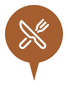
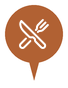
Cafés and eats pulled apart: coffee brown and a brighter orange
The owner found the two kinds' colours could not be told apart side by
side on a collection's card, and asked for new ones, knowing the map's
pins follow (12 Nov 2026).

Measured at the worst of normal, deuteranopic and protanopic vision
(CIEDE2000):

- The two dots sat 6° apart at one lightness, 2.7 apart.
- The eats pin sat 1.1 from nature's for a red-green reader.

The fix keeps the convention a reader already holds (coffee is brown,
food is orange) and pulls the two apart in lightness, the one
difference every kind of colour vision keeps. Each stays on its own hue.

|       | cafés dot | eats dot | cafés pin | eats pin |
|-------|-----------|----------|-----------|----------|
| was   | #D2A679   | #E09A6B  | #B75F05   | #A45E2F  |
| now   | #A6733F   | #EB8347  | #6E451C   | #B16133  |

Results:

- The dots are now 10.0 apart.
- The eats pin is 3.9 from its nearest, nature.
- The cafés pin is 8.6 from its nearest, culture.
- White ink reaches 8.3:1 on the cafés pin and 4.54:1 on the eats pin.

The cafés pin is darker than the pin rule's lightest step, #A36A2F,
which sat 0.5 from the eats pin. The exception is written at the table.

Other changes:

- `scripts/map-pins.py` had stopped parsing the table once it became
  `STYLES`; it now reads from the table to its end.
- Only the two recoloured pins are redrawn. The rest are left as they
  were, since this Pillow antialiases a few pixels differently.
- `taxonomy.test.ts` holds the two kinds apart in lightness: 1.5:1
[…]

diff --git a/app/src/lib/categories.ts b/app/src/lib/categories.ts
@@ -53,7 +53,8 @@ export type CategoryStyle = {
    * Hue is identical to `color`, which is what makes this the same colour
    * rather than a second one. Solved in that order and no other: exact
    * hue first, then saturation at or above 55%, then the lightest
-   * remaining step whose glyph still clears 4.5:1. Never against a fixed
+   * remaining step whose glyph still clears 4.5:1 — save `cafes`, taken
+   * darker to stand off `eats` (see above `STYLES`). Never against a fixed
    * lightness — blue and green carry more luminance at the same HSL step
    * and would hand `nature` a 2.32:1 glyph. `views` lands at 6.63 because
    * the lighter candidates on its line miss the hue by a fifth of a
@@ -82,15 +83,39 @@ export type Category = typeof CATEGORY_ORDER[number];
 /** Every key in `CATEGORY_ORDER` has a row, or this does not compile —
  *  a category added to the order without its style used to surface as a
  *  chip with no glyph. */
+// ── cafés and eats, pulled apart (owner, 12 Nov 2026) ──
+//
+// They sat 6° apart, at 30° and 24°, at one lightness: side by side on a
+// collection's card the owner could not tell them apart, and measured
+// they were 2.7 apart in CIEDE2000 at the worst of normal, deuteranopic
+// and protanopic vision — about the step at which two colours start to
+// separate at all. Their pins were worse: eats sat 1.1 from nature for a
+// red-green reader.
+//
+// Kept on the convention a reader already holds — coffee is brown, food
+// is orange, as both phone map apps colour them — and pulled apart in
+// lightness, the one difference no kind of colour blindness takes away.
+// Cafés went down to a coffee brown, eats up to a brighter orange, each
+// on its own hue as before:
+//
+//              dot                 pin               dots apart  pin's nearest
+//   was   cafés #D2A679  eats #E09A6B   #B75F05 #A45E2F    2.7      eats–nature 1.1
+//   now   cafés #A6733F  eats #EB8347   #6E451C #B16133   10.0      eats–nature 3.9
+//
+// The cost is that the cafés' dot is the darkest of the nine on paper
+// (3.6:1 against the others' 1.8–2.5), and its pin is darker than the
+// rule under `pin` gives: the lightest step on its line, #A36A2F, was 0.5
+// from the eats pin. Coffee is the kind the catalog holds most of, and
+// a darker brown is still coffee.
 const STYLES = {
   cafes: {
-    en: 'Cafés', vi: 'Cà phê', ja: 'カフェ', zh: '咖啡馆', hant: '咖啡館', icon: 'cafe-outline', color: '#D2A679',
-    pin: '#B75F05', food: true,
+    en: 'Cafés', vi: 'Cà phê', ja: 'カフェ', zh: '咖啡馆', hant: '咖啡館', icon: 'cafe-outline', color: '#A6733F',
+    pin: '#6E451C', food: true,
     terms: ['coffee', 'espresso', 'latte', 'quán cà phê', 'cà phê', 'コーヒー', '喫茶', '咖啡'],
   },
   eats: {
-    en: 'Eats', vi: 'Ăn uống', ja: '食事', zh: '美食', hant: '美食', icon: 'restaurant-outline', color: '#E09A6B',
-    pin: '#A45E2F', food: true,
+    en: 'Eats', vi: 'Ăn uống', ja: '食事', zh: '美食', hant: '美食', icon: 'restaurant-outline', color: '#EB8347',
+    pin: '#B16133', food: true,
     terms: ['restaurant', 'food', 'dining', 'lunch', 'dinner', 'nhà hàng', 'quán ăn', 'ăn uống', 'レストラン', 'グルメ', '餐厅', '美食', '餐廳'],
   },
   views: {

diff --git a/app/src/lib/taxonomy.test.ts b/app/src/lib/taxonomy.test.ts
@@ -230,6 +230,22 @@ function hue(hex: string): number {
 
 const WHITE = '#FFFFFF';
 
+// Cafés and eats, the two kinds most often side by side (owner, 12 Nov
+// 2026): they sat 6° apart at one lightness, and could not be told apart
+// on a collection's card. Pulled apart in lightness, the one difference
+// every kind of colour vision keeps — see the note above `STYLES`.
+describe('cafés and eats', () => {
+  it('differ in lightness on the page and on the map', () => {
+    expect(contrast(CATEGORIES.cafes.color, CATEGORIES.eats.color)).toBeGreaterThanOrEqual(1.5);
+    expect(contrast(CATEGORIES.cafes.pin, CATEGORIES.eats.pin)).toBeGreaterThanOrEqual(1.8);
+  });
+
+  it('stay coffee-brown and orange, on their own hues', () => {
+    expect(hue(CATEGORIES.cafes.color)).toBeCloseTo(30.3, 0);
+    expect(hue(CATEGORIES.eats.color)).toBeCloseTo(22, 0);
+  });
+});
+
 describe('the map pin palette', () => {
   it('gives every category in the filter row a fill', () => {
     for (const key of CATEGORY_ORDER) {

diff --git a/app/scripts/map-pins.py b/app/scripts/map-pins.py
@@ -43,7 +43,11 @@ WHITE = (255, 255, 255, 255)
 def parse_table():
     """(key, icon, fill) for each category, in the file's own order."""
     src = CATEGORIES_TS.read_text()
-    body = src.split('export const CATEGORIES', 1)[1]
+    # The table is `STYLES` (typed against `Category` so a missing row does
+    # not compile) and `CATEGORIES` is its loose-typed alias after it; the
+    # parse used to start at the alias, and found nothing once the table
+    # moved above it. Read from the table to the end of its literal.
+    body = src.split('const STYLES = {', 1)[1].split('} satisfies', 1)[0]
     out = []
     for m in re.finditer(
         r"\n  (\w+): \{(.*?)\n  \},", body, re.S
